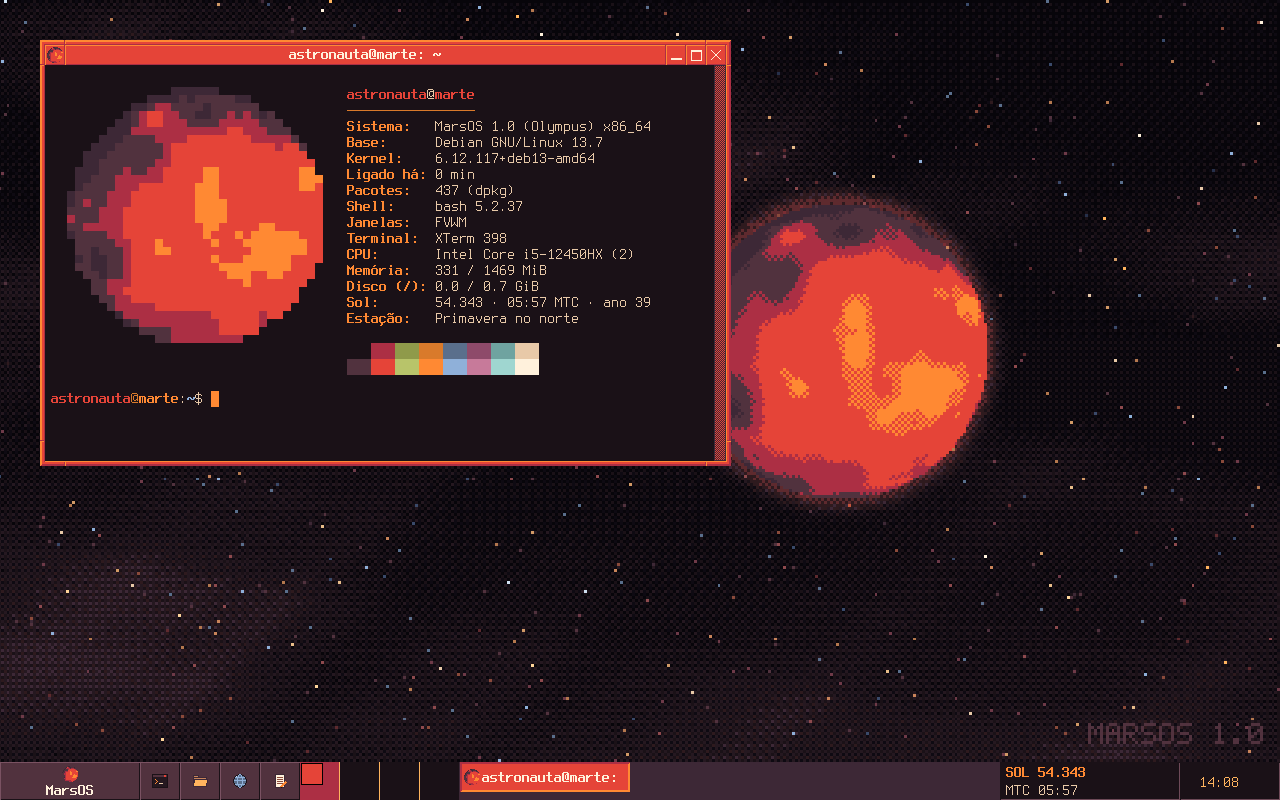
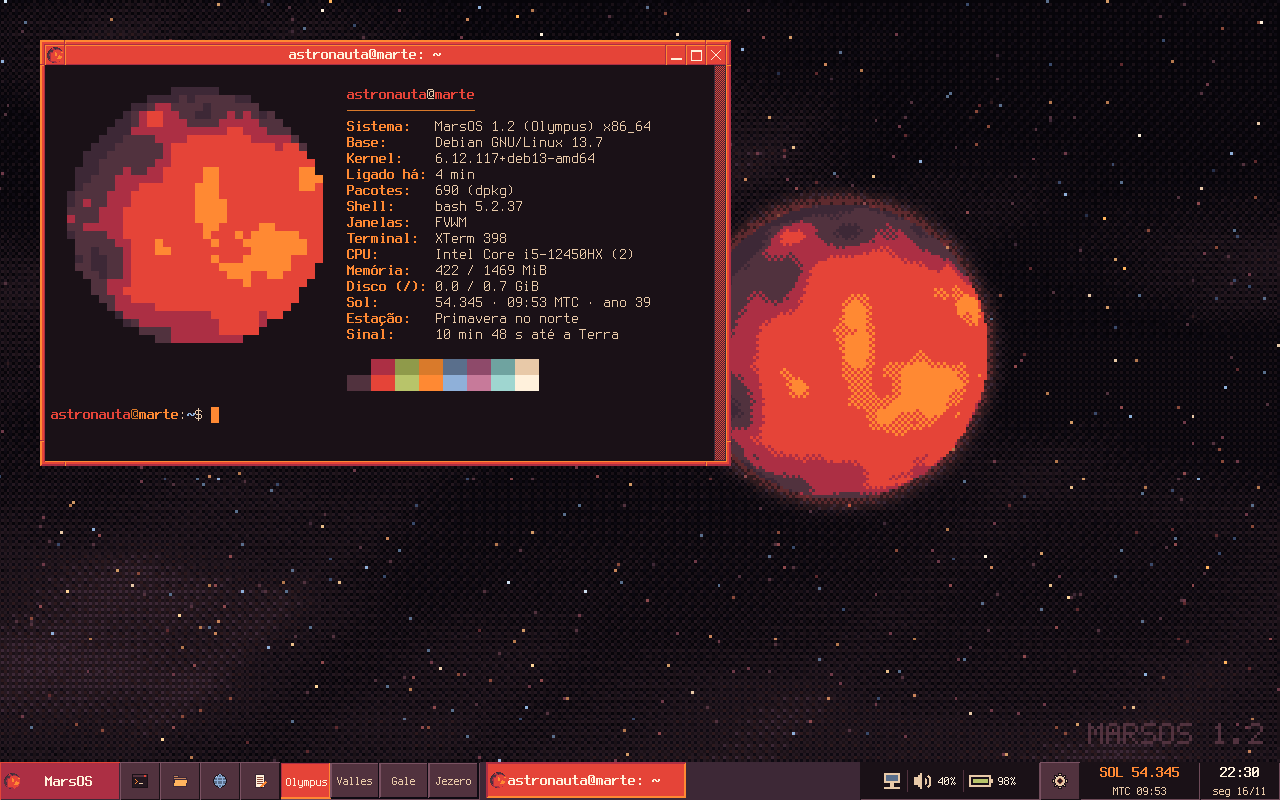
Site: 1.2 screenshots (new panel, Mission Control); theme for root GTK apps; Gnumeric file associations

diff --git a/docs/pt/index.html b/docs/pt/index.html
@@ -87,6 +87,7 @@
         <h2>Como ele é</h2>
         <div class="galeria">
           <figure><a href="../img/boot.png"><img src="../img/boot.png" alt="Menu de boot com o planeta e o letreiro MARSOS" loading="lazy"></a><figcaption>Menu de boot</figcaption></figure>
+          <figure><a href="../img/missao.png"><img src="../img/missao.png" alt="Controle da Missão: missões ativas e Correio para Marte" loading="lazy"></a><figcaption>Controle da Missão e Correio para Marte</figcaption></figure>
           <figure><a href="../img/jogo.png"><img src="../img/jogo.png" alt="Pouso Marciano, o jogo da sonda" loading="lazy"></a><figcaption>Pouso Marciano</figcaption></figure>
           <figure><a href="../img/instalador.png"><img src="../img/instalador.png" alt="O instalador em modo texto com as cores de Marte" loading="lazy"></a><figcaption>O instalador</figcaption></figure>
           <figure><a href="../img/boot-texto.png"><img src="../img/boot-texto.png" alt="Mensagens de boot em texto, com cores marcianas" loading="lazy"></a><figcaption>Boot em texto, como antigamente</figcaption></figure>

diff --git a/docs/index.html b/docs/index.html
@@ -87,6 +87,7 @@
         <h2>What it looks like</h2>
         <div class="galeria">
           <figure><a href="img/en/boot.png"><img src="img/en/boot.png" alt="Boot menu with the planet and the MARSOS logo" loading="lazy"></a><figcaption>Boot menu</figcaption></figure>
+          <figure><a href="img/en/missao.png"><img src="img/en/missao.png" alt="Mission Control: active missions and Mail to Mars" loading="lazy"></a><figcaption>Mission Control and Mail to Mars</figcaption></figure>
           <figure><a href="img/en/jogo.png"><img src="img/en/jogo.png" alt="Mars Touchdown, the lander game" loading="lazy"></a><figcaption>Mars Touchdown</figcaption></figure>
           <figure><a href="img/en/instalador.png"><img src="img/en/instalador.png" alt="The text-mode installer in Martian colours" loading="lazy"></a><figcaption>The installer</figcaption></figure>
           <figure><a href="img/boot-texto.png"><img src="img/boot-texto.png" alt="Text-mode boot messages in Martian colours" loading="lazy"></a><figcaption>Text-mode boot, the old way</figcaption></figure>
